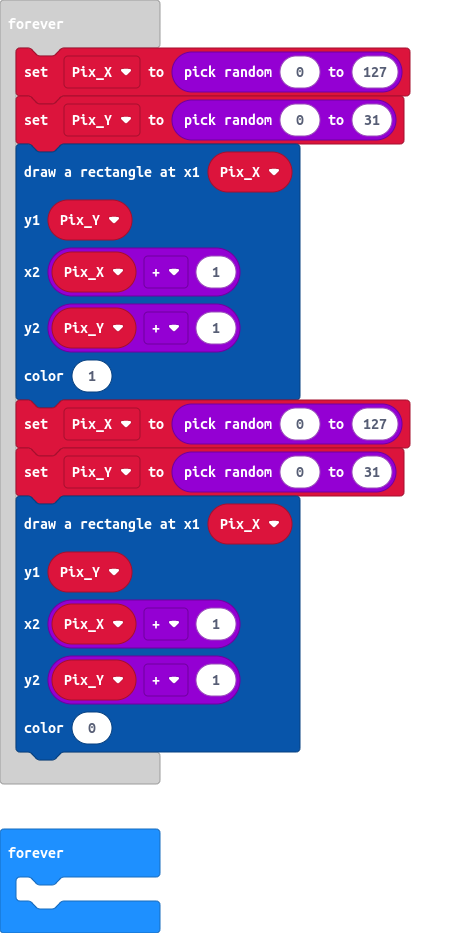
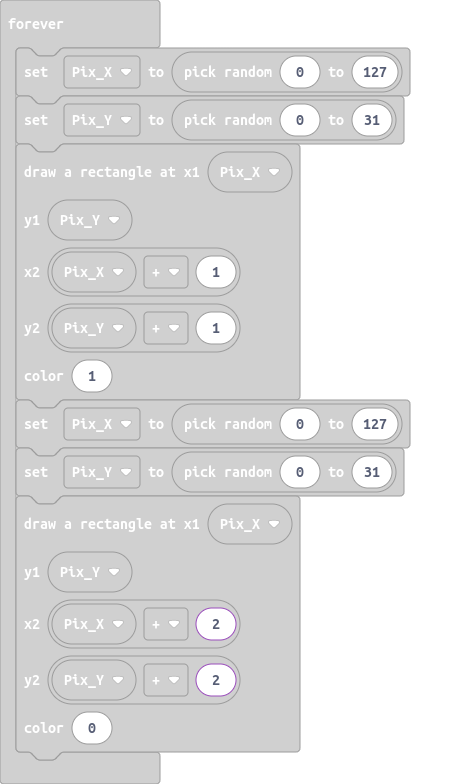
clear 2 by 2 square

diff --git a/main.ts b/main.ts
@@ -26,8 +26,8 @@ basic.forever(function () {
     OLED12864_I2C.rect(
     Pix_X,
     Pix_Y,
-    Pix_X + 1,
-    Pix_Y + 1,
+    Pix_X + 2,
+    Pix_Y + 2,
     0
     )
 })
